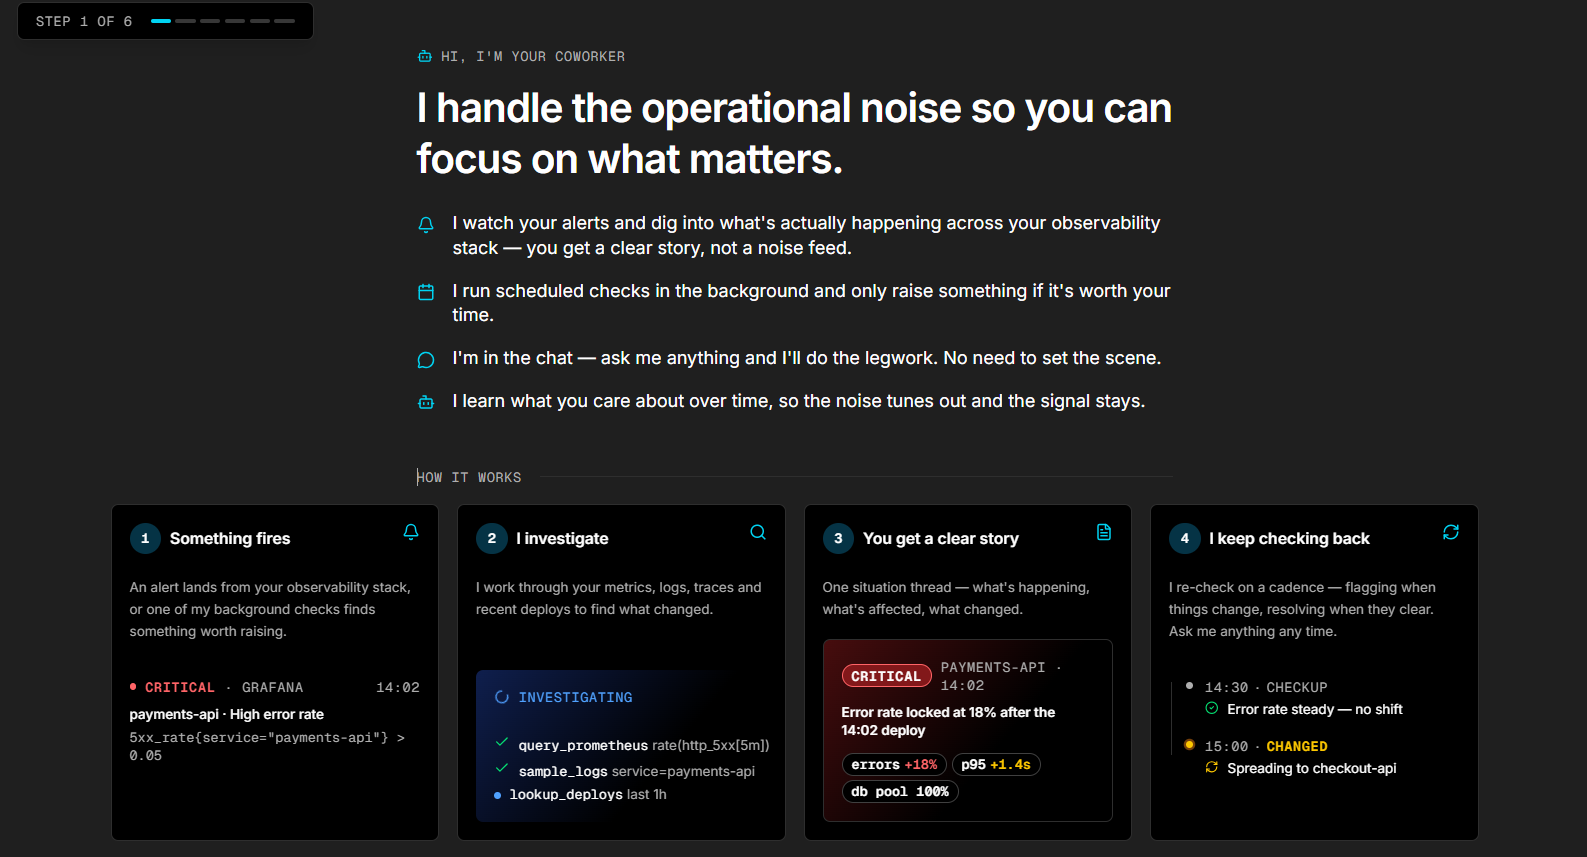
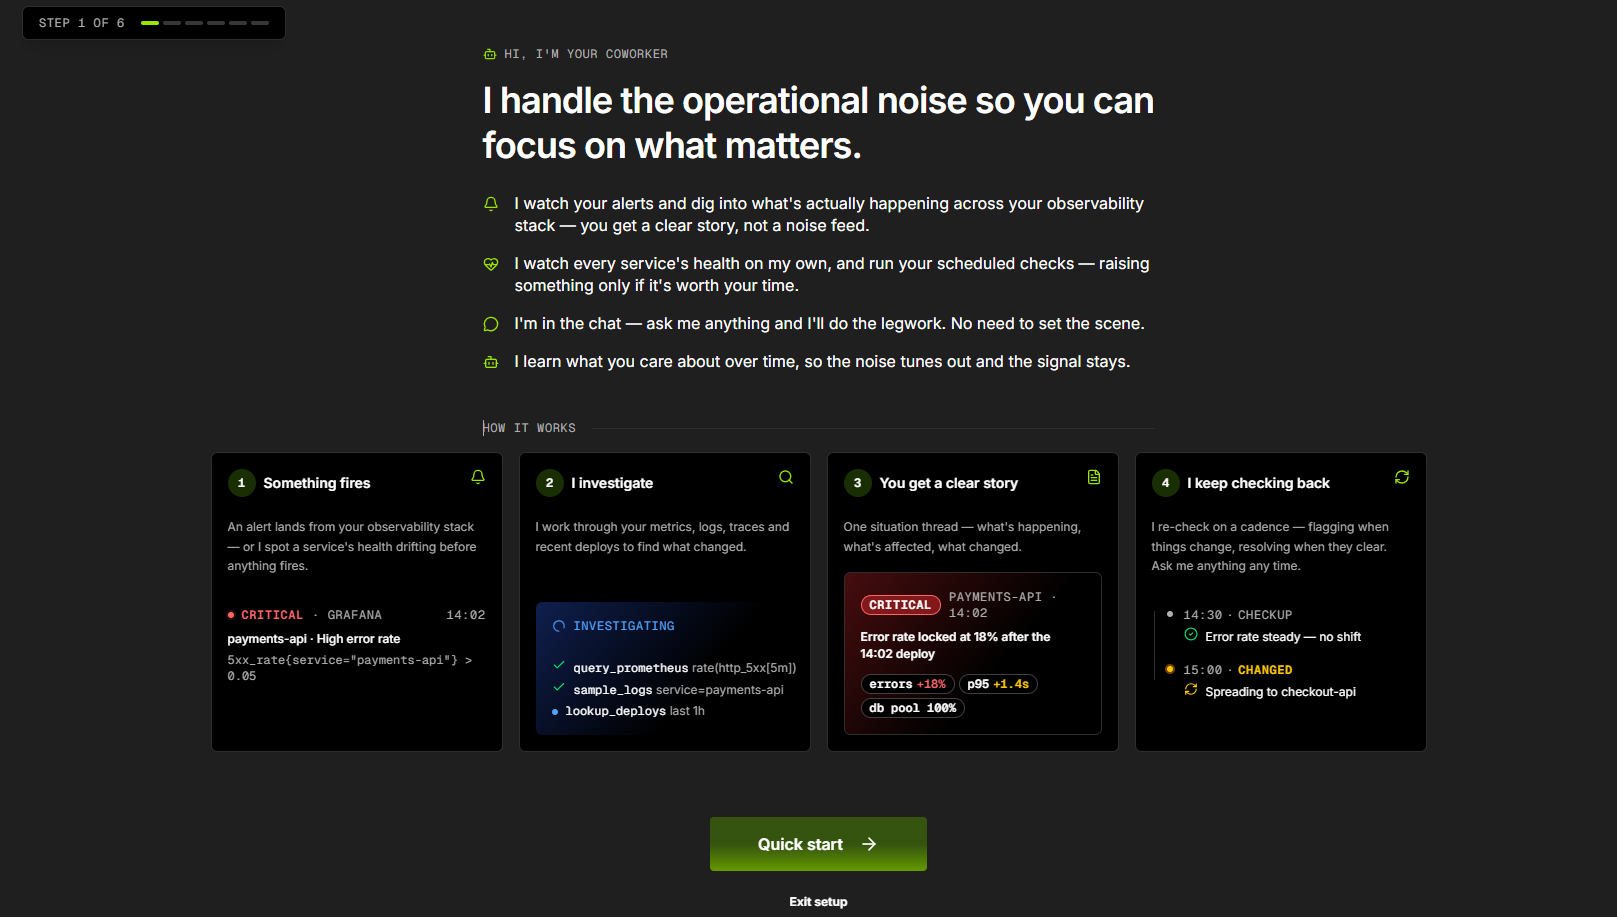
Coworker onboarding update (#43)
* Update Coworker onboarding to the current six-step flow

- Revert from eight steps to six: remove the standalone Alerts and Scheduled
  tasks steps (now folded into the intro and Health screen messaging)
- Refresh Step 1 wording (health watching in the intro; "Something fires" card
  now covers health drift) and recopy Step 6 to "Which services do you want
  front and centre?"
- Repoint all step screenshots to the new onboarding1-6.png captures

* Add refreshed onboarding step screenshots

Replace onboarding1/2/4/5/6.png with the current six-step captures referenced by
the getting-started page.

---------

diff --git a/docs/Data-insights/Features/OpsPilot/Coworker/getting-started.md b/docs/Data-insights/Features/OpsPilot/Coworker/getting-started.md
@@ -2,11 +2,11 @@
 
 ## Onboarding
 
-The more Coworker knows about you and your services, the better it filters the noise. A short eight-step setup, shown the first time you open Coworker, tailors it to you. You can skip any step and still get a working Coworker - you'll just see a broader, less tailored view until you set your preferences.
+The more Coworker knows about you and your services, the better it filters the noise. A short six-step setup, shown the first time you open Coworker, tailors it to you. You can skip any step and still get a working Coworker - you'll just see a broader, less tailored view until you set your preferences.
 
 ### Step 1: Introduction
 
-![!Screenshot](../../../../Coworker/start.png)
+![!Screenshot](../../../../Coworker/onboarding1.png)
 
 Step 1 introduces what Coworker does:
 
@@ -15,11 +15,11 @@ Step 1 introduces what Coworker does:
 And how it helps:
 
 - Watches your alerts and digs into what's actually happening across your observability stack, so you get a clear story rather than a noise feed
-- Runs scheduled checks in the background and only raises something if it's worth your time
+- Watches every service's health on its own and runs your scheduled checks, raising something only if it's worth your time
 - Answers questions in the chat and does the legwork, with no need to set the scene
 - Learns what you care about over time, so the noise tunes out and the signal stays
 
-A **How it works** flow shows four cards: something fires, Coworker investigates, you get a clear story, and it keeps checking back. Click **Quick start** to begin, or **Skip** to go straight to the dashboard.
+A **How it works** flow shows four cards: something fires (an alert lands, or Coworker spots a service's health drifting before anything fires), Coworker investigates, you get a clear story, and it keeps checking back. Click **Quick start** to begin, or **Skip** to go straight to the dashboard.
 
 ---
 
@@ -31,7 +31,7 @@ Coworker can watch every service's health automatically - no setup from you. Thi
 
 > *"Once your services are cataloged, I watch each one's health signals every few minutes. When something drifts out of its normal range and stays there, I investigate and write it up, the same way I handle an alert."*
 
-If your services are already cataloged, this step shows what Heartbeat is already watching - for example *"Already watching 120 signals across 15 services"* - with the list of services covered. You can turn individual signals or services off at any time from the [Heartbeat panel](heartbeat.md#configuring-signals). Click **Continue**.
+If your services are already cataloged, this step shows what Heartbeat is already watching - for example *"Already watching 127 signals across 16 services"* - with the list of services covered. You can turn individual signals or services off at any time from the [Heartbeat panel](heartbeat.md#configuring-signals). Click **Continue**.
 
 If nothing is cataloged yet, choose how to proceed:
 
@@ -40,45 +40,7 @@ If nothing is cataloged yet, choose how to proceed:
 
 ---
 
-### Step 3: Alerts
-
-![!Screenshot](../../../../Coworker/3-alerts.png)
-
-Coworker can watch your alerts and investigate each one the moment it fires:
-
-> *"When one fires, I'll investigate it the way you would - check metrics, sample logs, work out what changed - and post the findings as a situation. You see one clean story, not a stream of alert noise."*
-
-Choose how much to hand over:
-
-- **Watch all** - Coworker investigates every alert that fires.
-- **Let me pick** - choose which alerts Coworker watches.
-
-If no alerts are connected yet, you'll see a note such as *"No Grafana alerts found yet"* - set some up in Grafana, then come back here or wire them in from alerts settings. Click **Continue**, or **Skip for now** to move on.
-
----
-
-### Step 4: Scheduled tasks
-
-![!Screenshot](../../../../Coworker/4-scheduled.png)
-
-Pick a few background checks for Coworker to run on a cadence:
-
-> *"Scheduled tasks run quietly in the background on a cadence - daily or weekly - and only raise something if it's worth your time. Pick whichever sound useful; you can always adjust them later."*
-
-Select any of the ready-made reports:
-
-| Report | What it covers | Cadence |
-|---|---|---|
-| **Service Uptime Report** | Service availability and downtime incidents | Daily at 9:00 AM UTC |
-| **Error Rates Report** | Error rates and top errors across services | Daily at 9:00 AM UTC |
-| **Resource Usage Report** | CPU, memory, and storage utilization | Weekly on Mondays at 9:00 AM UTC |
-| **Performance Report** | Response times, throughput, and latency | Daily at 10:00 AM UTC |
-
-Click **Continue**, or **None for now** to skip. You can add, edit, or remove scheduled tasks at any time - see [Tasks](tasks.md).
-
----
-
-### Step 5: Your role
+### Step 3: Your role
 
 ![!Screenshot](../../../../Coworker/onboarding3.png)
 
@@ -96,7 +58,7 @@ Select **Skip - I'll come back later** to proceed without setting a role.
 
 ---
 
-### Step 6: What do you want me to help with?
+### Step 4: What do you want me to help with?
 
 ![!Screenshot](../../../../Coworker/onboarding4.png)
 
@@ -117,7 +79,7 @@ Click **Continue** when done, or **Skip** to proceed without selecting any.
 
 ---
 
-### Step 7: Which of these matter most to you?
+### Step 5: Which of these matter most to you?
 
 ![!Screenshot](../../../../Coworker/onboarding5.png)
 
@@ -140,18 +102,18 @@ Select as many as apply. These can be updated at any time from **Settings > Pref
 
 ---
 
-### Step 8: Which services are yours?
+### Step 6: Which services do you want front and centre?
 
 ![!Screenshot](../../../../Coworker/onboarding6.png)
 
-Coworker offers to work out which services you own, so it can filter the noise down to what's yours:
+Coworker asks which services to put front and centre, so it can prioritise what reaches you first:
 
-> *"The more I know what you own, the better I can filter the noise. I'll ask a few questions."*
+> *"Everything still gets monitored - this just decides what reaches you first, and what sits under the rest of the org. Skip if you'd rather not narrow by service. Either way, you can change it any time."*
 
 Choose how to proceed:
 
-- **Sure** - describe in a sentence or two what you work on (a team, a product area, the services you own, anything you've been burned by lately) and click **Investigate**. Coworker maps those services to you and prioritises them in your feed.
-- **Skip** - finish onboarding without it.
+- **Sure** - pick the services to put front and centre, so situations touching them are prioritised in your feed.
+- **Skip** - finish onboarding without narrowing by service.
 
 ---
 
